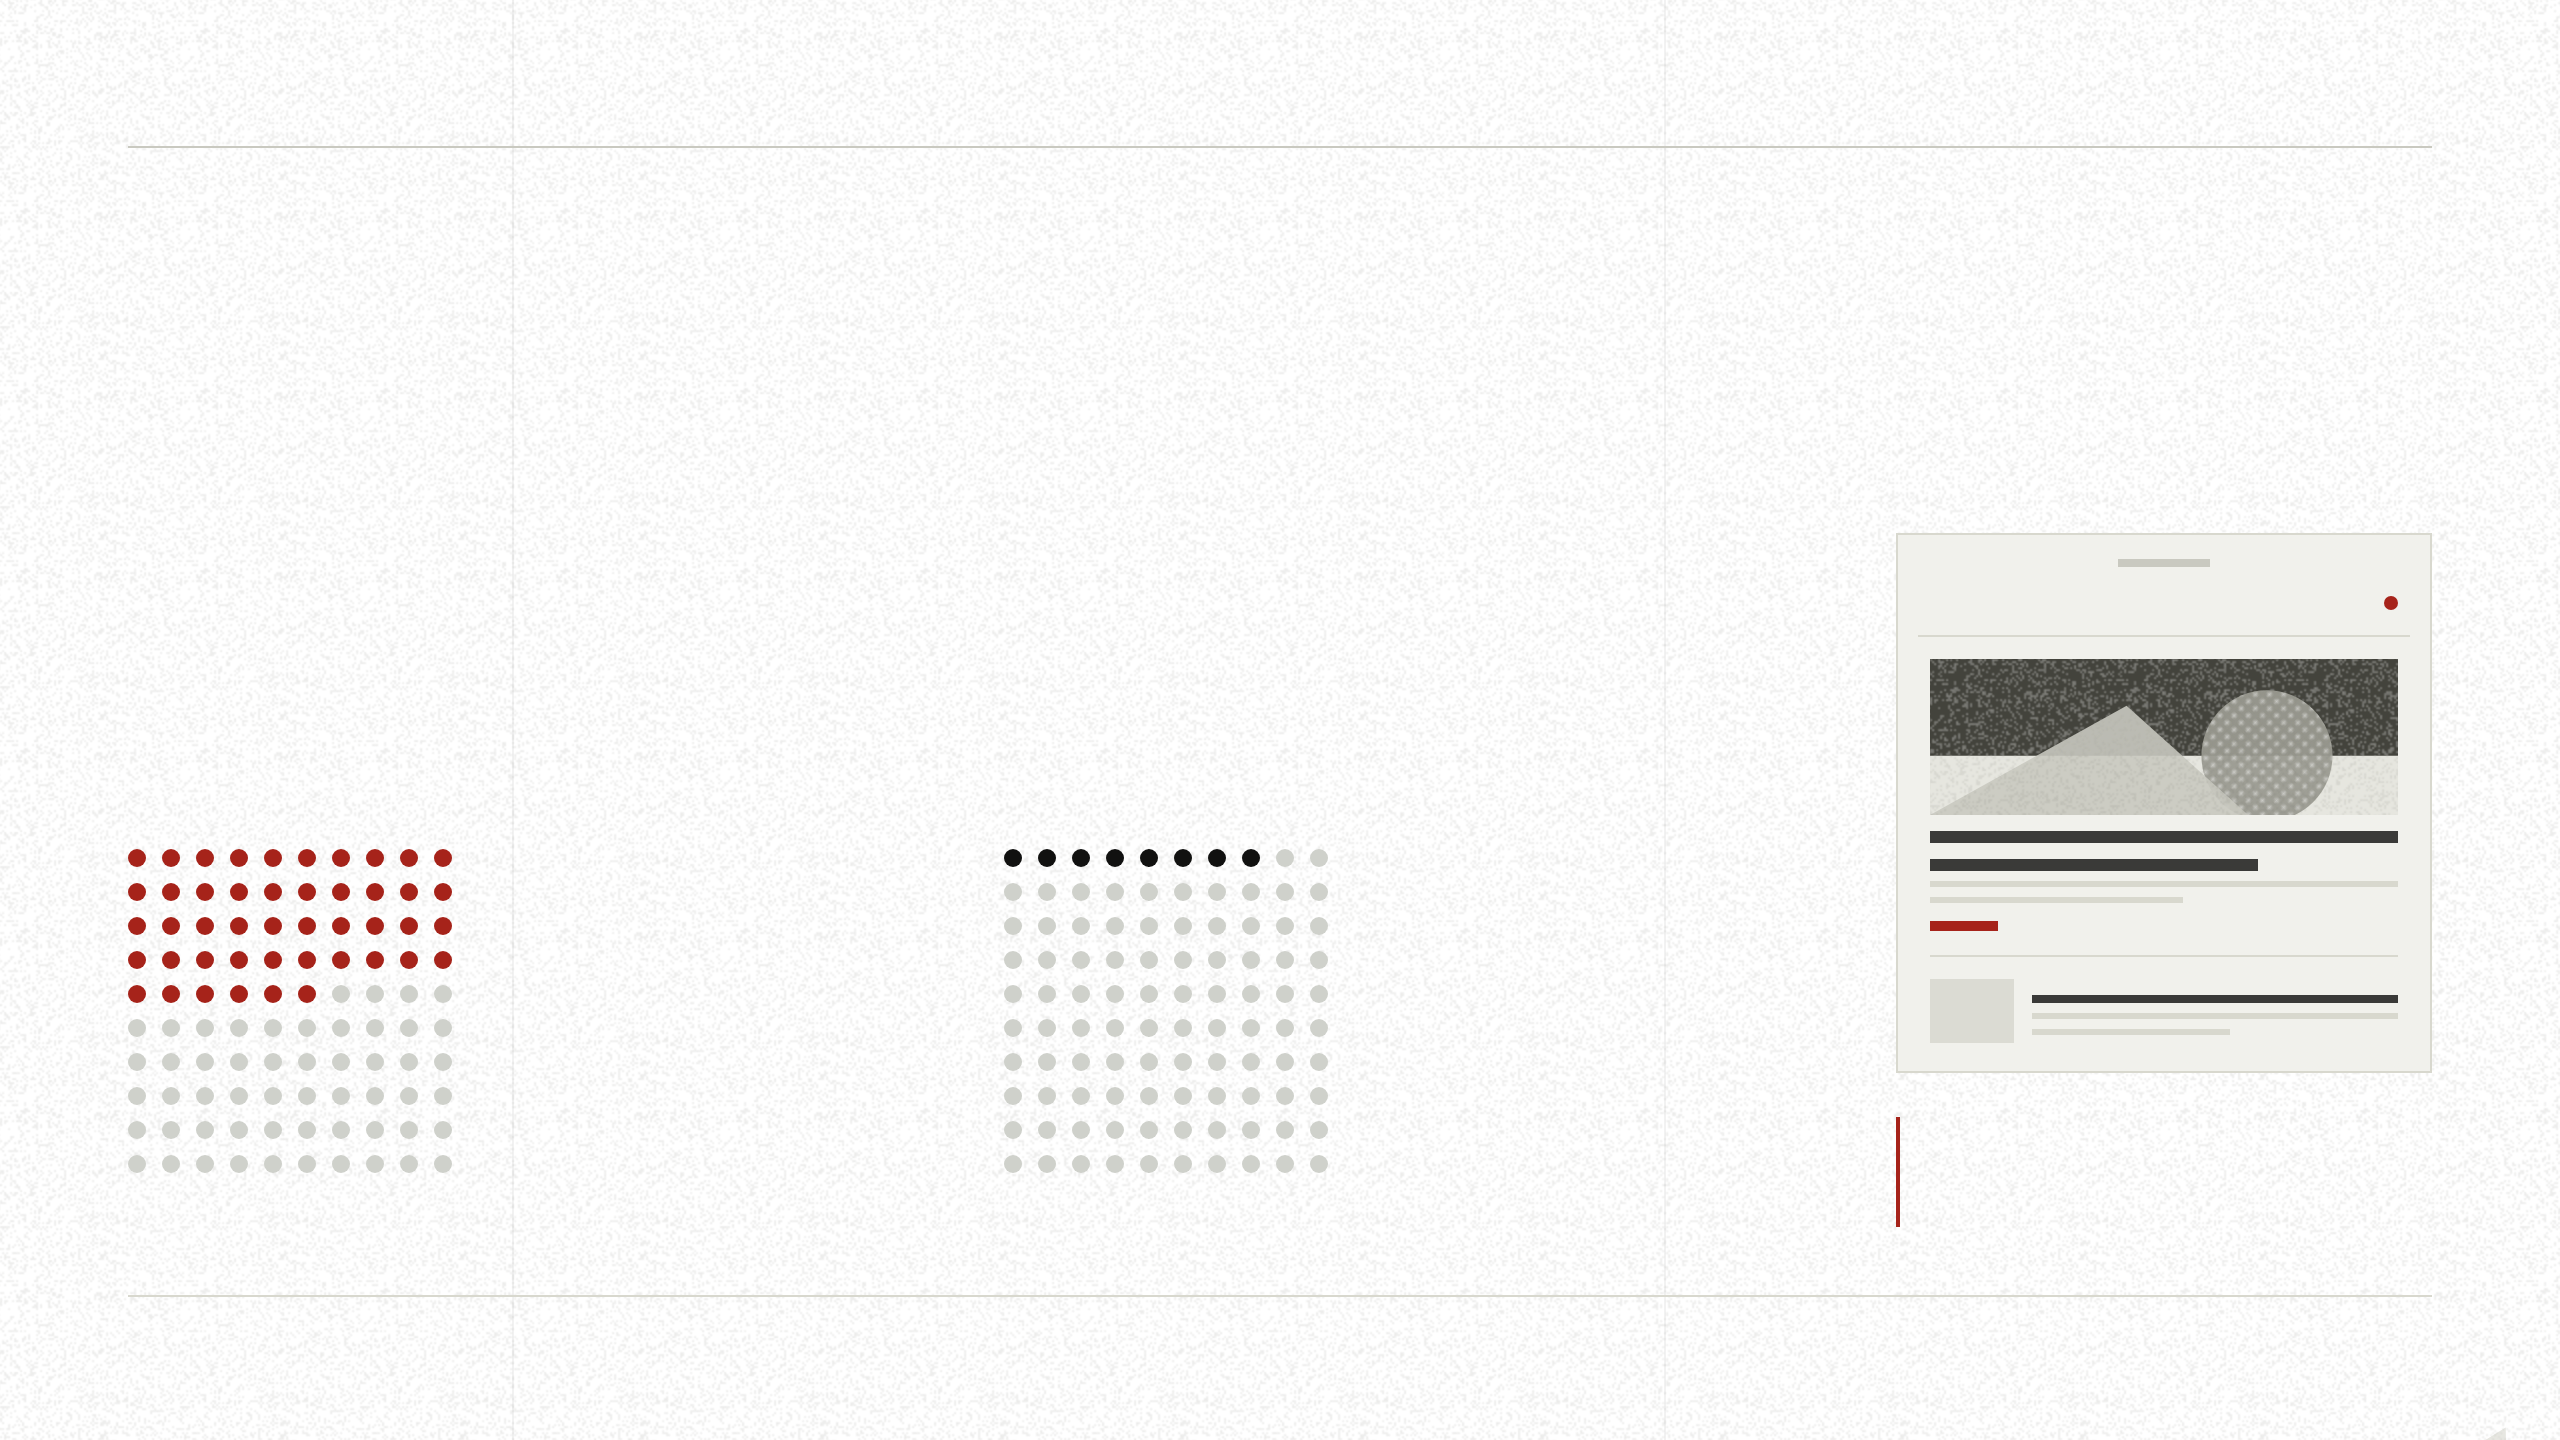
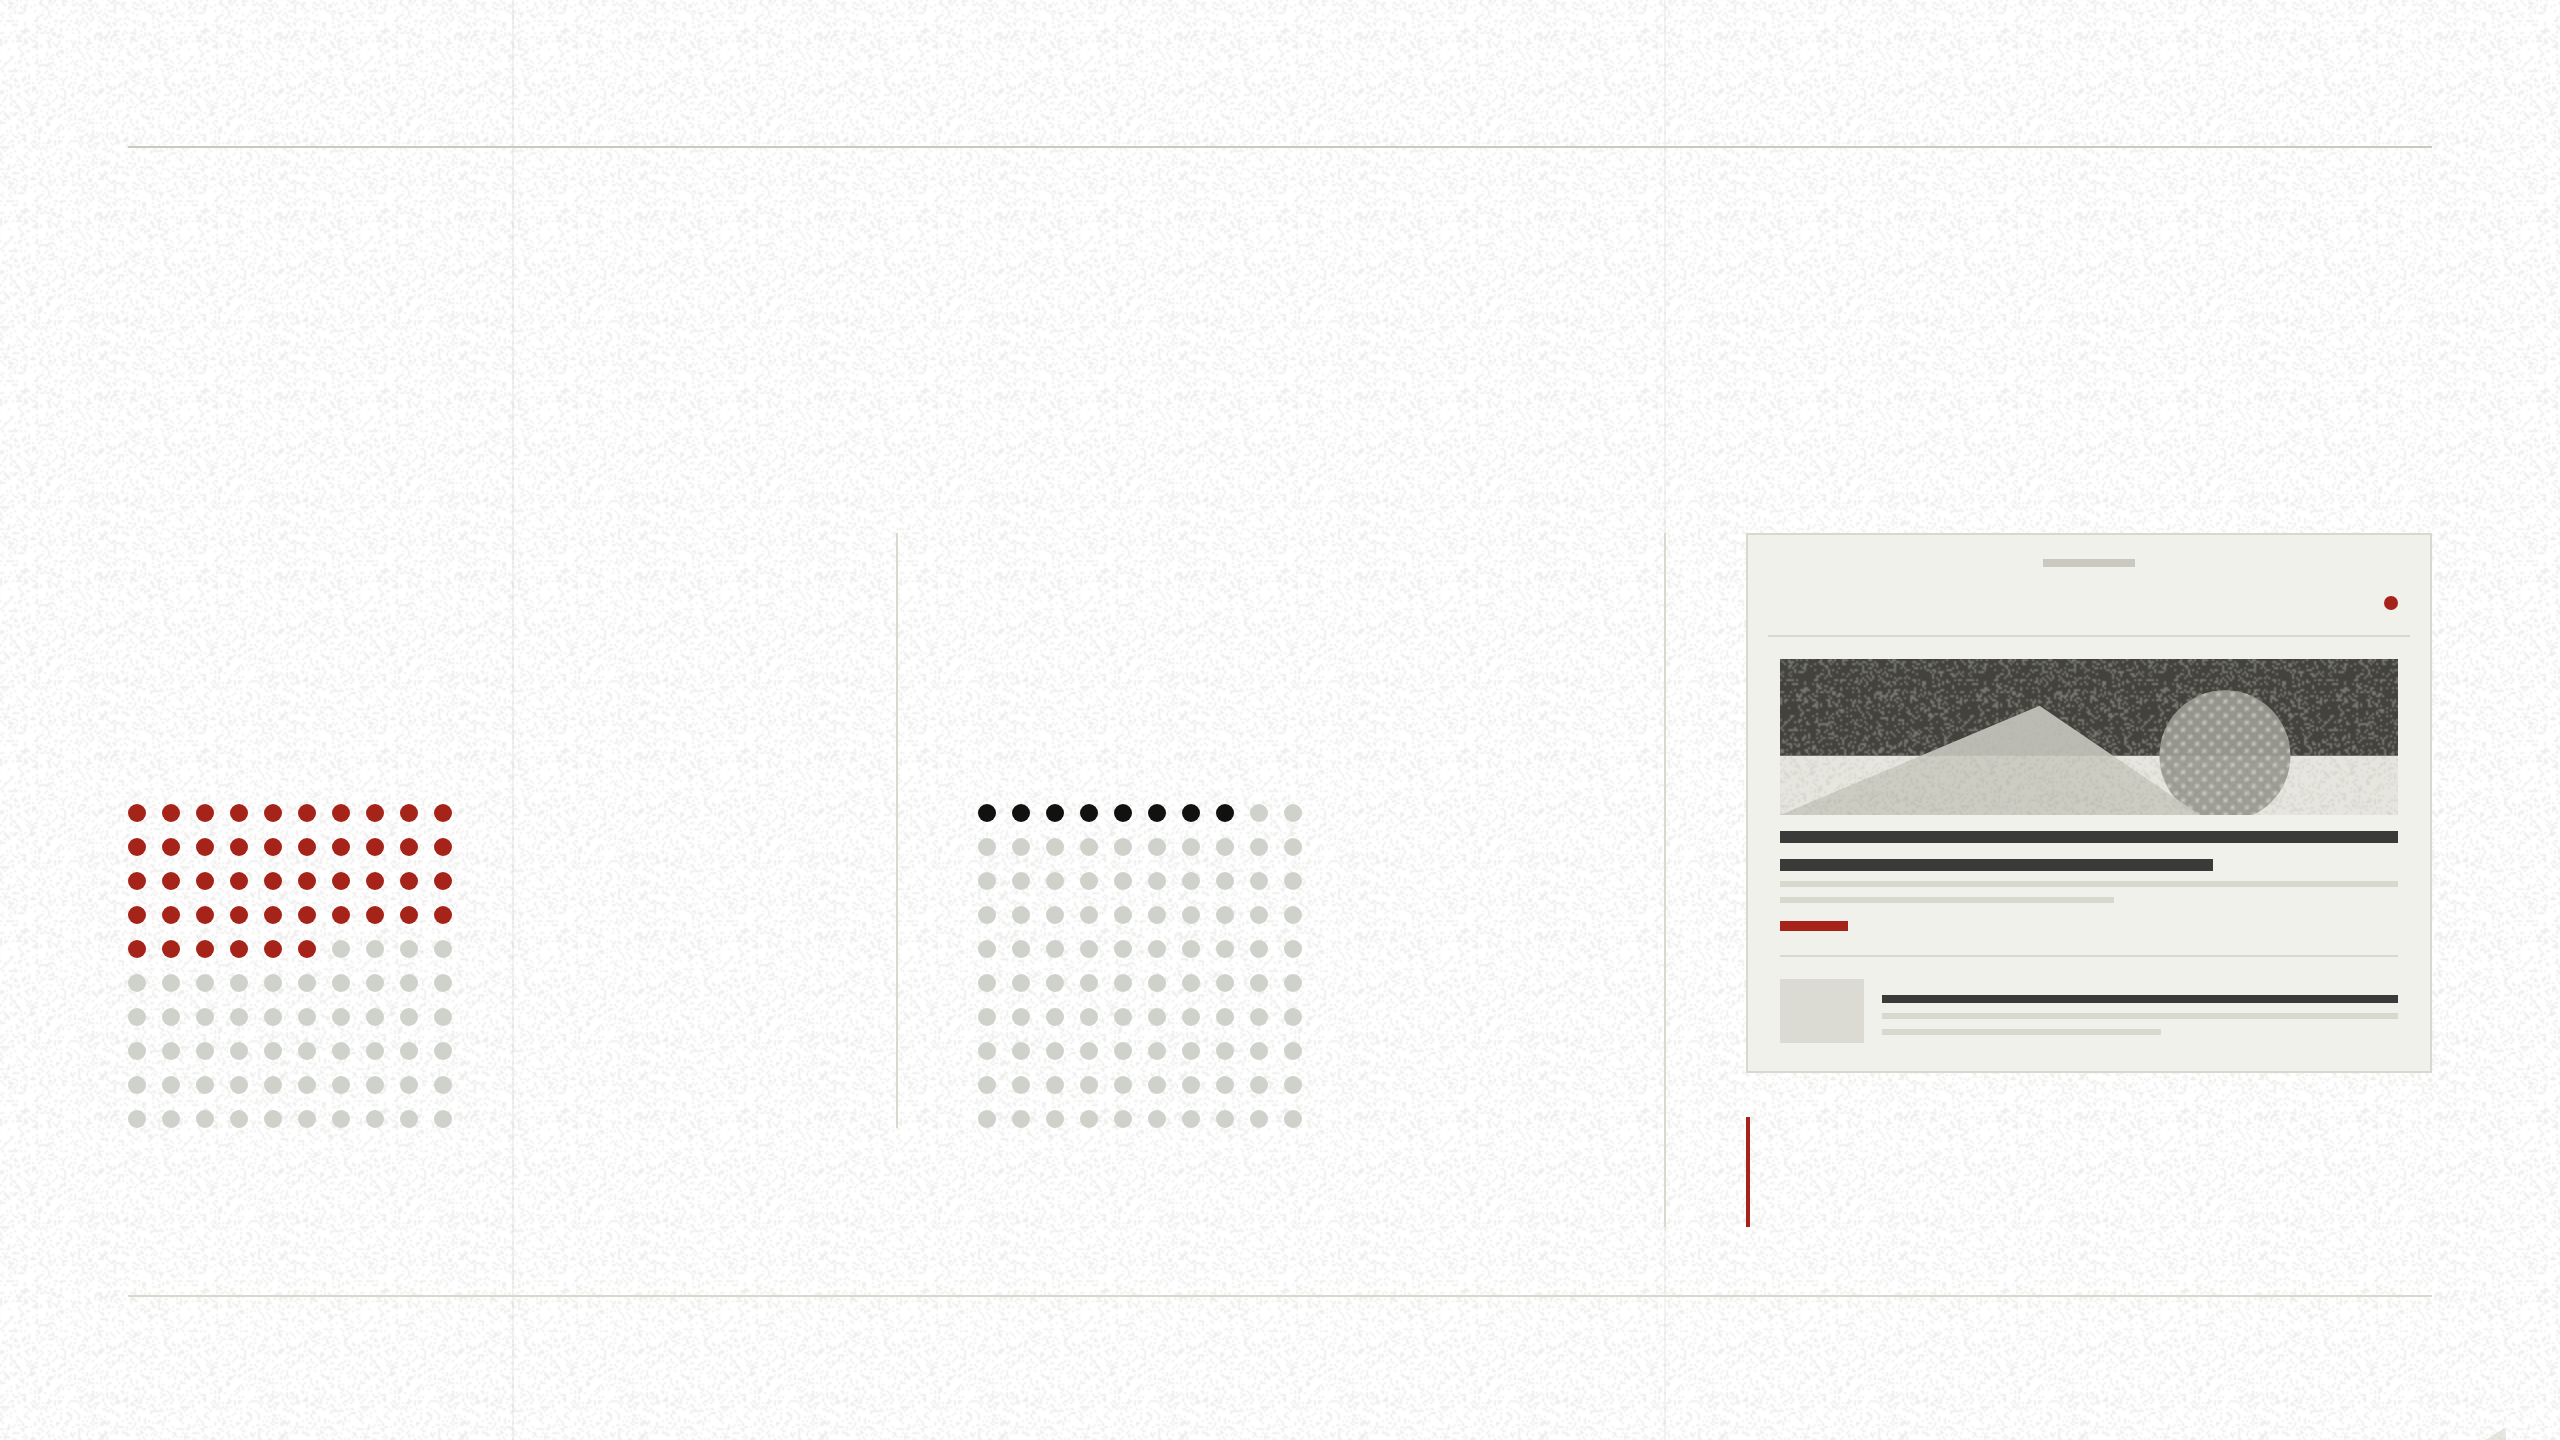
Even the retention page onto one column rhythm, and clear the stale plate numbering
The retention page was a 1fr/268px split with a nested two-column grid inside the
left half, so the two figures sat close together and a wide gap opened before the
phone. The three blocks are now siblings in one grid of equal thirds, separated by
the same hairline-with-equal-padding rule pages 5 and 9 use, tops aligned, group
centred in the band. Measured after: columns 384 / 384 / 384, tops all at 267,
both dot blocks at 402.

The plate folders had accumulated two numbering schemes at once, 16-page and
17-page, because the sets were copied in over each other rather than replaced:
08-owned-channels sat beside 08-retention, 09-divider-3 beside 09-owned-channels,
and so on. Each folder is now cleared before the current set is written, so the
17 plates are the only plates.

Rebased onto the /ndot/ reorganisation: this work was still writing to
/explorations/publisher-deck/, which is now a redirect stub.

diff --git a/ndot/explorations/publisher-deck/deck.html b/ndot/explorations/publisher-deck/deck.html
@@ -237,16 +237,22 @@ h2{font-size:41px; line-height:1.08}
 .metrics + .cap{margin-top:30px; padding-top:14px; border-top:1px solid var(--line)}
 
 /* ---------- retention ---------- */
-.retain{flex:1; min-height:0; display:grid; grid-template-columns:1fr 268px; gap:52px; align-items:center; padding:14px 0}
-.ret-figs{display:grid; grid-template-columns:1fr 1fr; gap:44px}
+/* three columns on one rule rhythm, the same one pages 5 and 9 use: equal
+   padding either side of a hairline, tops aligned, group centred in the band */
+.retain{flex:1; min-height:0; display:grid; grid-template-columns:repeat(3,1fr); gap:0;
+        align-content:center; align-items:start; padding:16px 0}
+.ret-col,.ret-side{padding:0 40px; border-left:1px solid var(--line)}
+.retain > *:first-child{padding-left:0; border-left:none}
+.retain > *:last-child{padding-right:0}
 .ret-num{font-family:var(--serif); font-weight:600; font-size:60px; line-height:1; letter-spacing:-.04em; color:var(--accent-live); font-variant-numeric:tabular-nums}
 .ret-num.muted{color:var(--mute)}
 .ret-num .pct{font-size:32px}
-.ret-lab{font-size:16px; font-weight:600; line-height:1.3; color:var(--ink); margin-top:14px}
-.ret-when{font-family:var(--mono); font-size:10px; letter-spacing:.15em; text-transform:uppercase; color:var(--mute); margin-top:3px}
+.ret-lab{font-size:16px; font-weight:600; line-height:1.3; color:var(--ink); margin-top:16px}
+.ret-when{font-family:var(--mono); font-size:10px; letter-spacing:.15em; text-transform:uppercase; color:var(--mute); margin-top:4px}
+.ret-col .w-grid{margin-top:22px}
 .w-grid.grey i.on{background:var(--ink)}
-.ret-side{display:flex; flex-direction:column}
 .ret-side .phone{width:100%}
+.ret-side .pull{margin-top:22px}
 
 .shift{display:grid; grid-template-columns:244px 1fr; gap:48px; flex:1; min-height:0; align-items:center}
 .phone{padding:11px 10px 14px}
@@ -634,7 +640,6 @@ h2{font-size:41px; line-height:1.08}
   </div>
 
   <div class="retain">
-    <div class="ret-figs">
       <div class="ret-col">
         <div class="ret-num">46<span class="pct">%</span></div>
         <div class="ret-lab">Publisher apps</div>
@@ -647,7 +652,6 @@ h2{font-size:41px; line-height:1.08}
         <div class="ret-when">Day-30 retention</div>
         <div class="w-grid grey" data-waffle="8"></div>
       </div>
-    </div>
     <div class="ret-side">
       <div class="phone panel">
         <div class="notch"></div>
